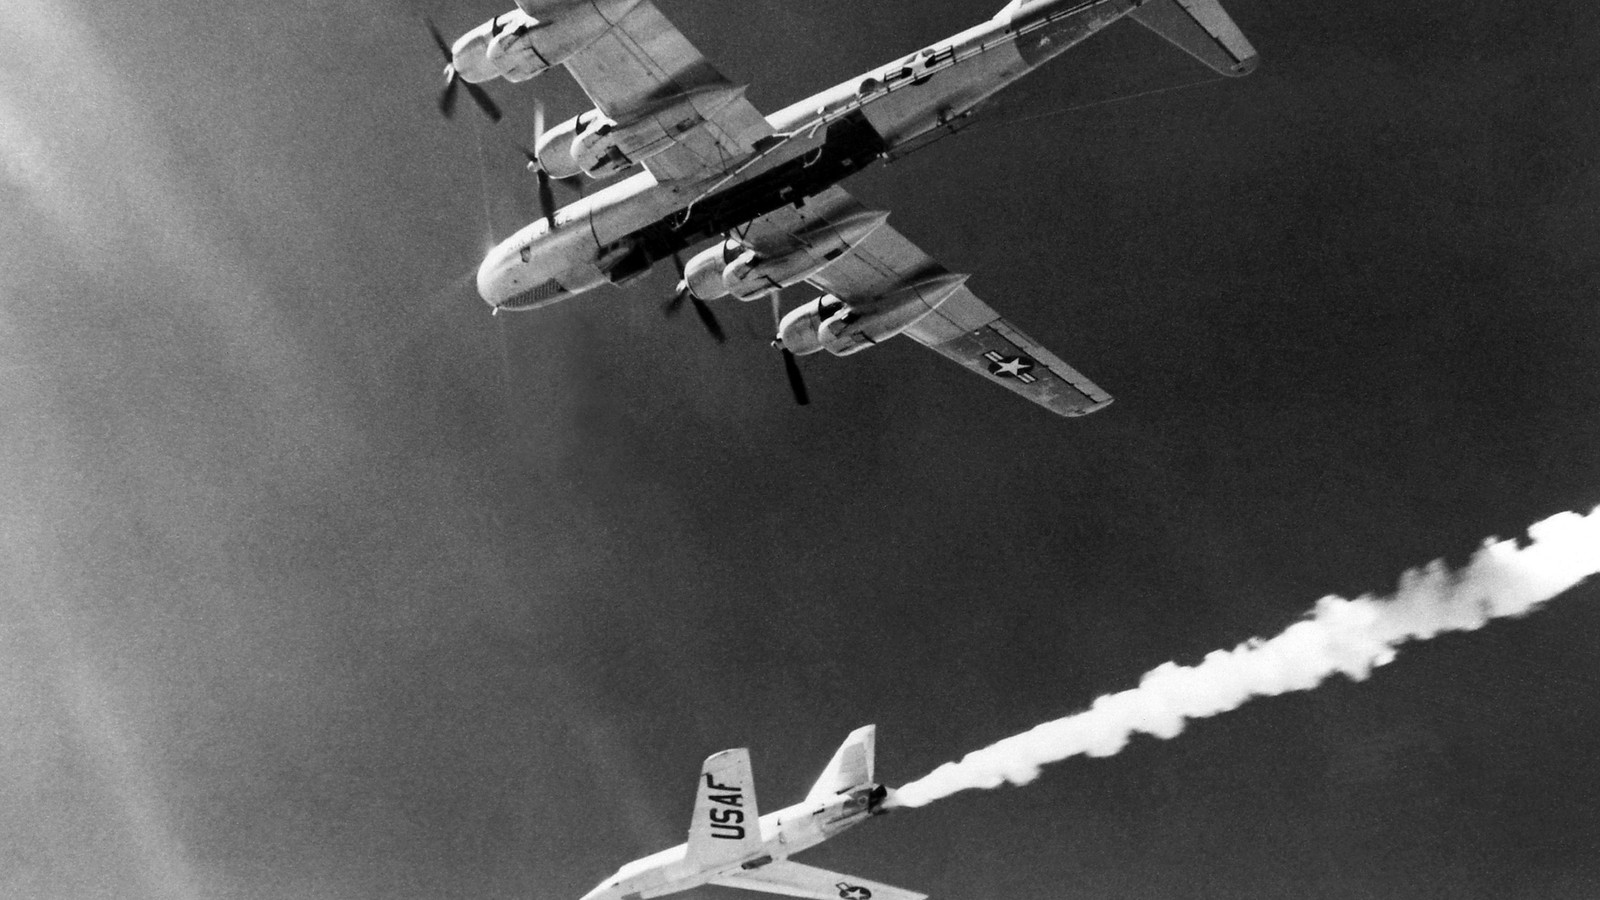
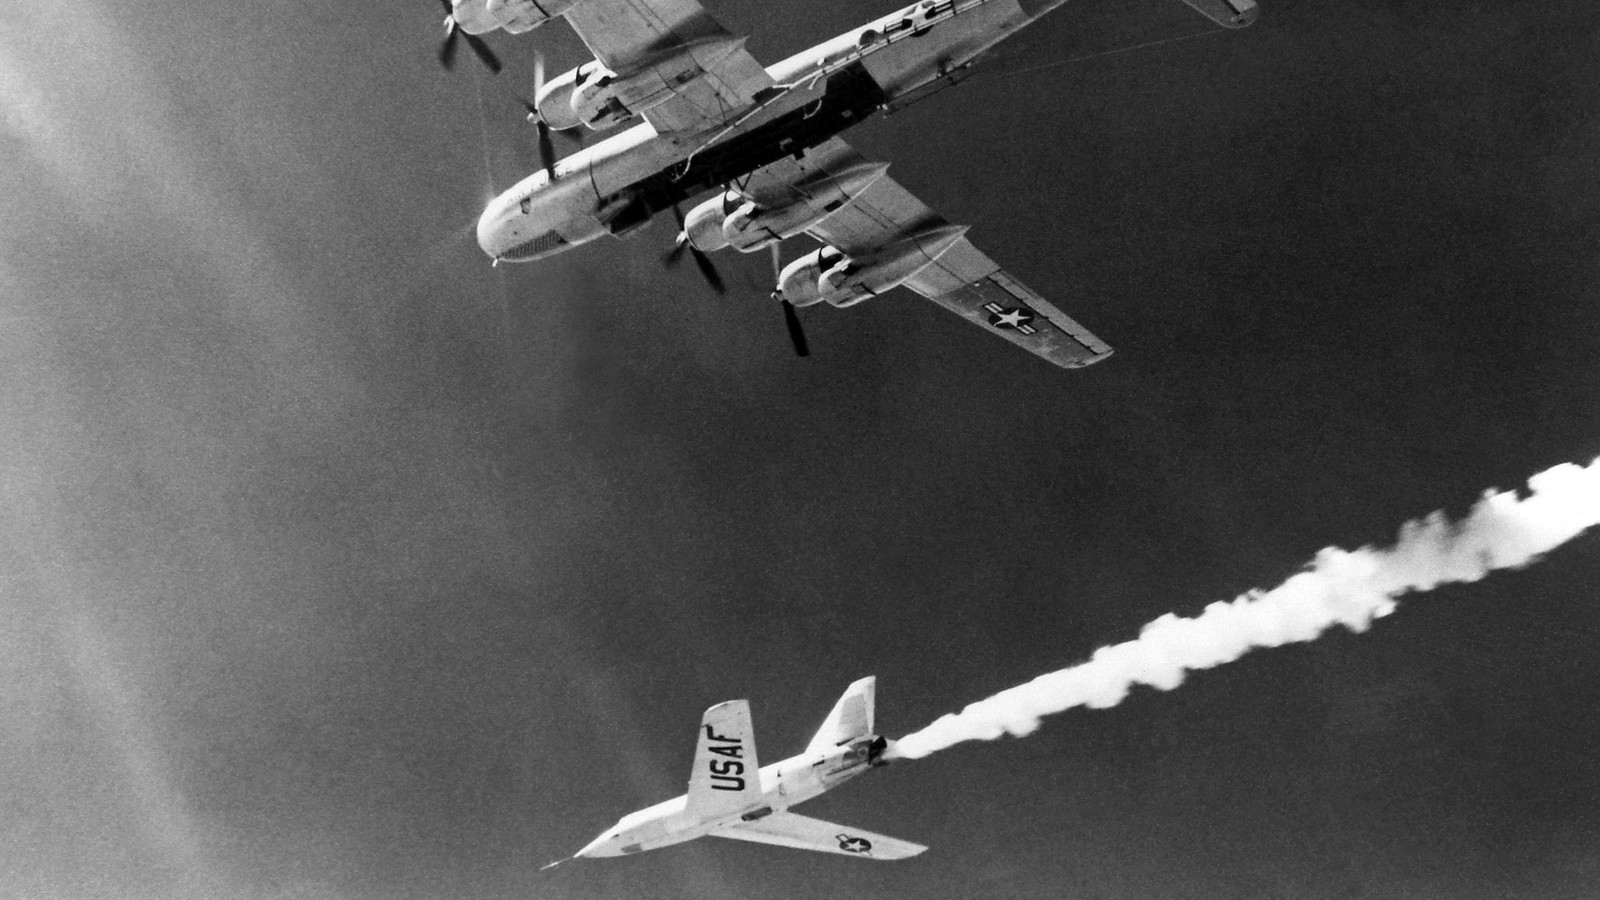
Add Mobile App and Something Completely Different to Far Horizons; recrop the X-2
Two more project categories: Mobile App (iOS/Android), and Something
Completely Different -- stepping outside software entirely as long as
the material is text-based, with PCB design in KiCad as the example.

Also re-crops the Higher, Faster background: the previous 0.85 bias
still cut off the X-2's nose. Bumped to 1.0 (fully bottom-anchored) so
the X-2 sits completely in frame -- wingtip star, tail number, and
exhaust trail all visible -- accepting more of the B-50 mothership's
propellers being cropped off at the top.

diff --git a/sessions/far-horizons/index.html b/sessions/far-horizons/index.html
@@ -146,6 +146,28 @@
 
       <section data-background-image="../../assets/images/pan-am-clipper.jpg">
         <div class="slide-content">
+        <h2>Mobile App</h2>
+        <ul>
+          <li>A native or cross-platform app for iPhone, iPad, or Android</li>
+          <li>Could be a mobile-first version of any idea above — a game, a tracker, a collaboration tool</li>
+          <li><strong>Good fit if:</strong> you want it living on a home screen, or need device features like camera, location, or notifications</li>
+        </ul>
+        </div>
+      </section>
+
+      <section data-background-image="../../assets/images/pan-am-clipper.jpg">
+        <div class="slide-content">
+        <h2>Something Completely Different</h2>
+        <ul>
+          <li>It doesn't have to be an app at all — if the AI can read and edit the file format, it can help you build with it</li>
+          <li><strong>Example:</strong> design a circuit board in <strong><em><a href="https://www.kicad.org/" target="_blank" rel="noopener noreferrer">KiCad</a></em></strong> — schematics and PCB layouts are just text files under the hood, the same way code is</li>
+          <li><strong>Good fit if:</strong> you want to learn something new outside pure software, as long as what you're working with is text-based</li>
+        </ul>
+        </div>
+      </section>
+
+      <section data-background-image="../../assets/images/pan-am-clipper.jpg">
+        <div class="slide-content">
         <h2>Your <em>Far Horizons</em> Activity</h2>
         <ul>
           <li>Skim back over the categories — or bring an idea that's entirely your own</li>

diff --git a/scripts/process_backgrounds.py b/scripts/process_backgrounds.py
@@ -30,7 +30,7 @@ IMAGES = {
     "curtiss-jenny": "crop",
     "pan-am-clipper": "crop",
     "p51-mustang": "crop",
-    "bell-x2": ("crop", 0.85),
+    "bell-x2": ("crop", 1.0),
     "f86-sabre": "crop",
     "f100-super-sabre": "crop",
     "apollo-capsule": "contain",

diff --git a/sessions/far-horizons/content.md b/sessions/far-horizons/content.md
@@ -86,6 +86,22 @@
 
 ---
 
+## Mobile App
+
+- A native or cross-platform app for iPhone, iPad, or Android
+- Could be a mobile-first version of any idea above — a game, a tracker, a collaboration tool
+- **Good fit if:** you want it living on a home screen, or need device features like camera, location, or notifications
+
+---
+
+## Something Completely Different
+
+- It doesn't have to be an app at all — if the AI can read and edit the file format, it can help you build with it
+- **Example:** design a circuit board in ***[KiCad](https://www.kicad.org/)*** — schematics and PCB layouts are just text files under the hood, the same way code is
+- **Good fit if:** you want to learn something new outside pure software, as long as what you're working with is text-based
+
+---
+
 ## Your *Far Horizons* Activity
 
 - Skim back over the categories — or bring an idea that's entirely your own
